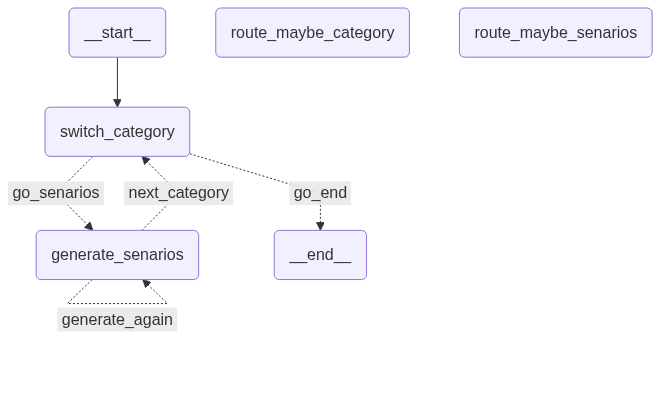
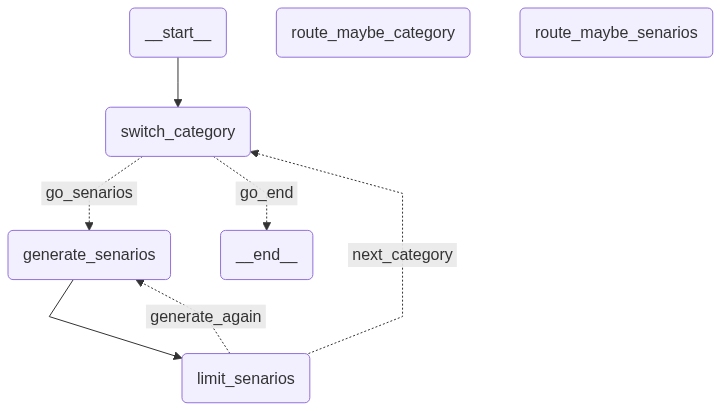
Replace planner_agent graph/nodes with agent, plann_one_ac_agent, and write_markdown modules

diff --git a/agentic_code_testing/agents/planner_agent/agent.py b/agentic_code_testing/agents/planner_agent/agent.py
@@ -1,0 +1,66 @@
+import logging
+import uuid
+
+from langgraph.checkpoint.memory import InMemorySaver
+from langgraph.types import Command
+
+from agentic_code_testing.agents.user_story_agent.typed_schemas import StoryAgentState
+from agentic_code_testing.agents.planner_agent.extract_ac_agent.typed_schemas import ExtractACAgentState
+from agentic_code_testing.agents.planner_agent.extract_ac_agent.graph import builder as extract_ac_builder
+from agentic_code_testing.agents.planner_agent.plann_one_ac_agent.graph import planner_agent_once_ac
+from agentic_code_testing.agents.planner_agent.typed_schemas import PlannerAgentState, PlannerAgentContext
+from agentic_code_testing.agents.planner_agent.write_markdown.base import BaseScenarioWriter
+from agentic_code_testing.logging.pydantic_logger import setup_logging
+
+setup_logging()
+logger = logging.getLogger(__name__)
+
+
+def invoke_planning_agent(
+    llm,
+    user_story: StoryAgentState,
+    file_writer: BaseScenarioWriter,
+    output_dir,
+    max_acs: int | None = None,
+):
+    logger.info("Starting planning agent for story_id=%s", user_story.story_id)
+
+    state = ExtractACAgentState()
+    context = PlannerAgentContext(llm=llm, user_story=user_story)
+
+    extract_ac_graph = extract_ac_builder.compile(checkpointer=InMemorySaver())
+    config = {"configurable": {"thread_id": str(uuid.uuid4())}}
+
+    logger.info("Extracting acceptance criteria for story_id=%s", user_story.story_id)
+    result = extract_ac_graph.invoke(state, config=config, context=context)
+    if "__interrupt__" in result:
+        logger.info(
+            "Acceptance criteria not found for story_id=%s; auto-accepting %d AI-generated criteria",
+            user_story.story_id,
+            len(result["acs"]),
+        )
+        # No human is available to review AI-generated criteria here, so auto-accept them.
+        result = extract_ac_graph.invoke(Command(resume={"accepted": True}), config=config, context=context)
+
+    acs = result["acs"]
+    logger.info("Extracted %d acceptance criteria for story_id=%s", len(acs), user_story.story_id)
+
+    if max_acs is not None:
+        acs = acs[:max_acs]
+        logger.info("Capping to %d acceptance criteria for story_id=%s", len(acs), user_story.story_id)
+
+    context = context.model_copy(update={"acs": acs})
+
+    all_scenarios = []
+    for ac_idx in range(len(acs)):
+        logger.info("Generating scenarios for AC %d/%d", ac_idx + 1, len(acs))
+        state = PlannerAgentState(ac_idx=ac_idx, is_category_covered=False, coverage_reasoning="")
+        result = planner_agent_once_ac.invoke(state, context=context)
+        logger.info("Generated %d scenarios for AC %d/%d", len(result["scenarios"]), ac_idx + 1, len(acs))
+        all_scenarios.extend(result["scenarios"])
+
+    logger.info("Writing %d scenarios to markdown at %s", len(all_scenarios), output_dir)
+    file_writer.write(all_scenarios, output_dir)
+
+    logger.info("Finished planning agent for story_id=%s", user_story.story_id)
+    return all_scenarios

diff --git a/agentic_code_testing/agents/planner_agent/tests/test_planner_agent.py b/agentic_code_testing/agents/planner_agent/tests/test_planner_agent.py
@@ -1,0 +1,46 @@
+from agentic_code_testing.agents.planner_agent.agent import invoke_planning_agent
+from agentic_code_testing.agents.planner_agent.tests.mock_data import MOCK_STORY_AGENT_STATE
+from agentic_code_testing.agents.planner_agent.typed_schemas import Scenario
+from agentic_code_testing.agents.planner_agent.write_markdown.markdown_writer import MarkdownScenarioWriter
+from agentic_code_testing.agents.user_story_agent.nodes.parsing_nodes import NOT_FOUND_TOKEN
+from agentic_code_testing.llm.groq_client import llm
+
+# def test_invoke_planning_agent_writes_scenarios_to_markdown(tmp_path):
+#     user_story = MOCK_STORY_AGENT_STATE.model_copy(update={"acceptance_criteria": BULLETED_AC})
+#     file_writer = MarkdownScenarioWriter()
+
+#     scenarios = invoke_planning_agent(llm, user_story, file_writer, tmp_path)
+
+#     assert scenarios, "planner agent should generate at least one scenario"
+#     assert all(isinstance(scenario, Scenario) for scenario in scenarios)
+
+#     written_files = sorted(tmp_path.glob("*.md"))
+#     assert len(written_files) == len(scenarios), "one markdown file should be written per scenario"
+
+#     for scenario in scenarios:
+#         expected_path = tmp_path / f"{scenario.scenario_id}.md"
+#         assert expected_path.exists()
+#         content = expected_path.read_text(encoding="utf-8")
+#         assert scenario.title in content
+
+#     print(f"scenarios:\n{scenarios}\n")
+
+
+def test_invoke_planning_agent_without_bulleted_ac(tmp_path):
+    user_story = MOCK_STORY_AGENT_STATE.model_copy(update={"acceptance_criteria": NOT_FOUND_TOKEN})
+    file_writer = MarkdownScenarioWriter()
+
+    scenarios = invoke_planning_agent(llm, user_story, file_writer, tmp_path, max_acs=2)
+
+    assert all(isinstance(scenario, Scenario) for scenario in scenarios)
+
+    written_files = sorted(tmp_path.glob("*.md"))
+    assert len(written_files) == len(scenarios), "one markdown file should be written per scenario"
+
+    for scenario in scenarios:
+        expected_path = tmp_path / f"{scenario.scenario_id}.md"
+        assert expected_path.exists()
+        content = expected_path.read_text(encoding="utf-8")
+        assert scenario.title in content
+
+    print(f"scenarios:\n{scenarios}\n")

diff --git a/agentic_code_testing/agents/planner_agent/plann_one_ac_agent/graph.py b/agentic_code_testing/agents/planner_agent/plann_one_ac_agent/graph.py
@@ -1,9 +1,9 @@
 from langgraph.graph import StateGraph, START, END
 
 from agentic_code_testing.agents.planner_agent.typed_schemas import PlannerAgentState, PlannerAgentContext
-from agentic_code_testing.agents.planner_agent.extract_ac_agent.graph import extract_ac_graph
-from agentic_code_testing.agents.planner_agent.nodes.scenarios_generator import route_maybe_senarios, generate_senarios
-from agentic_code_testing.agents.planner_agent.nodes.switch_category import switch_category, route_maybe_category
+from agentic_code_testing.agents.planner_agent.plann_one_ac_agent.nodes.scenarios_generator import route_maybe_senarios, generate_senarios
+from agentic_code_testing.agents.planner_agent.plann_one_ac_agent.nodes.switch_category import switch_category, route_maybe_category
+from agentic_code_testing.agents.planner_agent.plann_one_ac_agent.nodes.limit_senarios import limit_senarios
 
 builder = StateGraph(PlannerAgentState, context_schema=PlannerAgentContext)
 
@@ -11,16 +11,19 @@ builder.add_node("route_maybe_category", route_maybe_category)
 builder.add_node("switch_category", switch_category)
 builder.add_node("route_maybe_senarios", route_maybe_senarios)
 builder.add_node("generate_senarios", generate_senarios)
+builder.add_node("limit_senarios", limit_senarios)
 
 builder.add_edge(START, "switch_category")
 builder.add_conditional_edges("switch_category",
                               route_maybe_category,
                               {"go_end": END,
                                "go_senarios": "generate_senarios"})
-builder.add_conditional_edges("generate_senarios",
+builder.add_edge("generate_senarios", "limit_senarios")
+builder.add_conditional_edges("limit_senarios",
                               route_maybe_senarios,
                               {"generate_again": "generate_senarios",
                                "next_category": "switch_category"})
 
 
-planner_agent = builder.compile()
+planner_agent_once_ac = builder.compile()
+

diff --git a/agentic_code_testing/agents/planner_agent/write_markdown/markdown_writer.py b/agentic_code_testing/agents/planner_agent/write_markdown/markdown_writer.py
@@ -1,0 +1,43 @@
+from pathlib import Path
+
+from agentic_code_testing.agents.planner_agent.typed_schemas import Scenario
+from agentic_code_testing.agents.planner_agent.write_markdown.base import BaseScenarioWriter
+
+
+class MarkdownScenarioWriter(BaseScenarioWriter):
+    def write(self, scenarios: list[Scenario], output_dir: str | Path) -> list[Path]:
+        output_dir = Path(output_dir)
+        output_dir.mkdir(parents=True, exist_ok=True)
+
+        written_paths = []
+        for scenario in scenarios:
+            path = output_dir / f"{scenario.scenario_id}.md"
+            path.write_text(self._render(scenario), encoding="utf-8")
+            written_paths.append(path)
+
+        return written_paths
+
+    def _render(self, scenario: Scenario) -> str:
+        lines = [
+            f"# {scenario.title}",
+            "",
+            f"- **Story ID:** {scenario.story_id}",
+            f"- **AC ID:** {scenario.ac_id}",
+            f"- **Category:** {scenario.category}",
+            f"- **Priority:** {scenario.priority}",
+            f"- **Test Type:** {scenario.test_type}",
+            "",
+            "## Description",
+            "",
+            scenario.description,
+        ]
+
+        if scenario.preconditions:
+            lines += ["", "## Preconditions", "", scenario.preconditions]
+
+        lines += ["", "## Steps", ""]
+        lines += [f"{i}. {step}" for i, step in enumerate(scenario.steps, start=1)]
+
+        lines += ["", "## Expected Result", "", scenario.expected_result]
+
+        return "\n".join(lines) + "\n"

diff --git a/agentic_code_testing/sample_code.py b/agentic_code_testing/sample_code.py
@@ -1,9 +1,9 @@
-from agentic_code_testing.agents.planner_agent.graph import planner_agent
+from agentic_code_testing.agents.planner_agent.plann_one_ac_agent.graph import planner_agent_once_ac
 # ASCII in the terminal, no extra deps
-planner_agent.get_graph().print_ascii()
+planner_agent_once_ac.get_graph().print_ascii()
 
 # Mermaid text you can paste into https://mermaid.live or a markdown file
-print(planner_agent.get_graph().draw_mermaid())
+print(planner_agent_once_ac.get_graph().draw_mermaid())
 
 # Rendered PNG (uses the mermaid.ink API by default, or pyppeteer/playwright locally)
-planner_agent.get_graph().draw_mermaid_png(output_file_path="planner_agent.png")
+planner_agent_once_ac.get_graph().draw_mermaid_png(output_file_path="planner_agent.png")

diff --git a/agentic_code_testing/agents/planner_agent/plann_one_ac_agent/nodes/limit_senarios.py b/agentic_code_testing/agents/planner_agent/plann_one_ac_agent/nodes/limit_senarios.py
@@ -1,0 +1,10 @@
+from agentic_code_testing.agents.planner_agent.typed_schemas import PlannerAgentState
+
+MAX_SCENARIOS_PER_CATEGORY = 3
+
+
+def limit_senarios(state: PlannerAgentState) -> dict:
+    count = sum(1 for scenario in state.scenarios if scenario.category == state.current_category)
+    if count >= MAX_SCENARIOS_PER_CATEGORY:
+        return {"is_category_covered": True}
+    return {}

diff --git a/agentic_code_testing/agents/planner_agent/write_markdown/base.py b/agentic_code_testing/agents/planner_agent/write_markdown/base.py
@@ -1,0 +1,10 @@
+from abc import ABC, abstractmethod
+from pathlib import Path
+
+from agentic_code_testing.agents.planner_agent.typed_schemas import Scenario
+
+
+class BaseScenarioWriter(ABC):
+    @abstractmethod
+    def write(self, scenarios: list[Scenario], output_dir: str | Path) -> list[Path]:
+        ...
